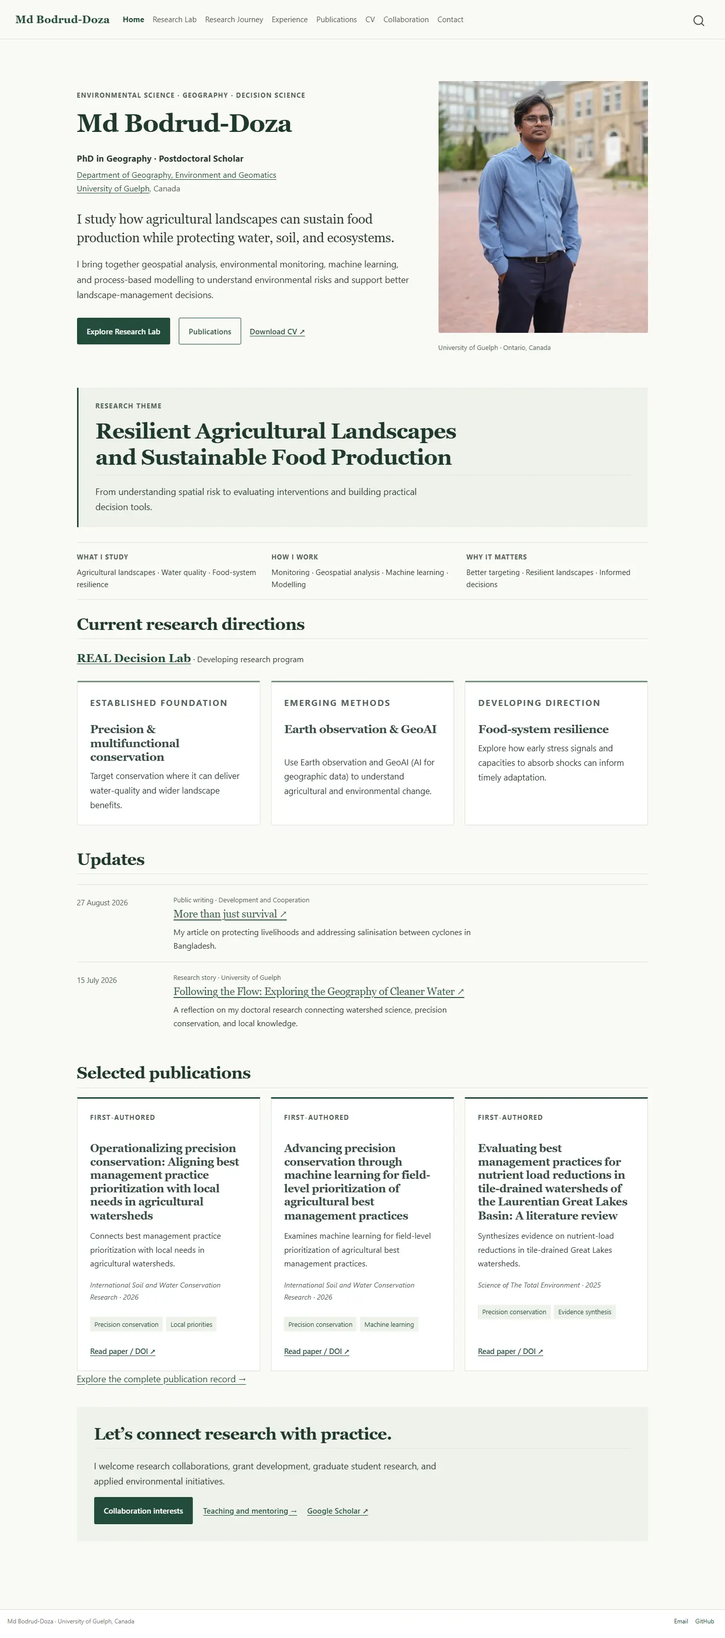
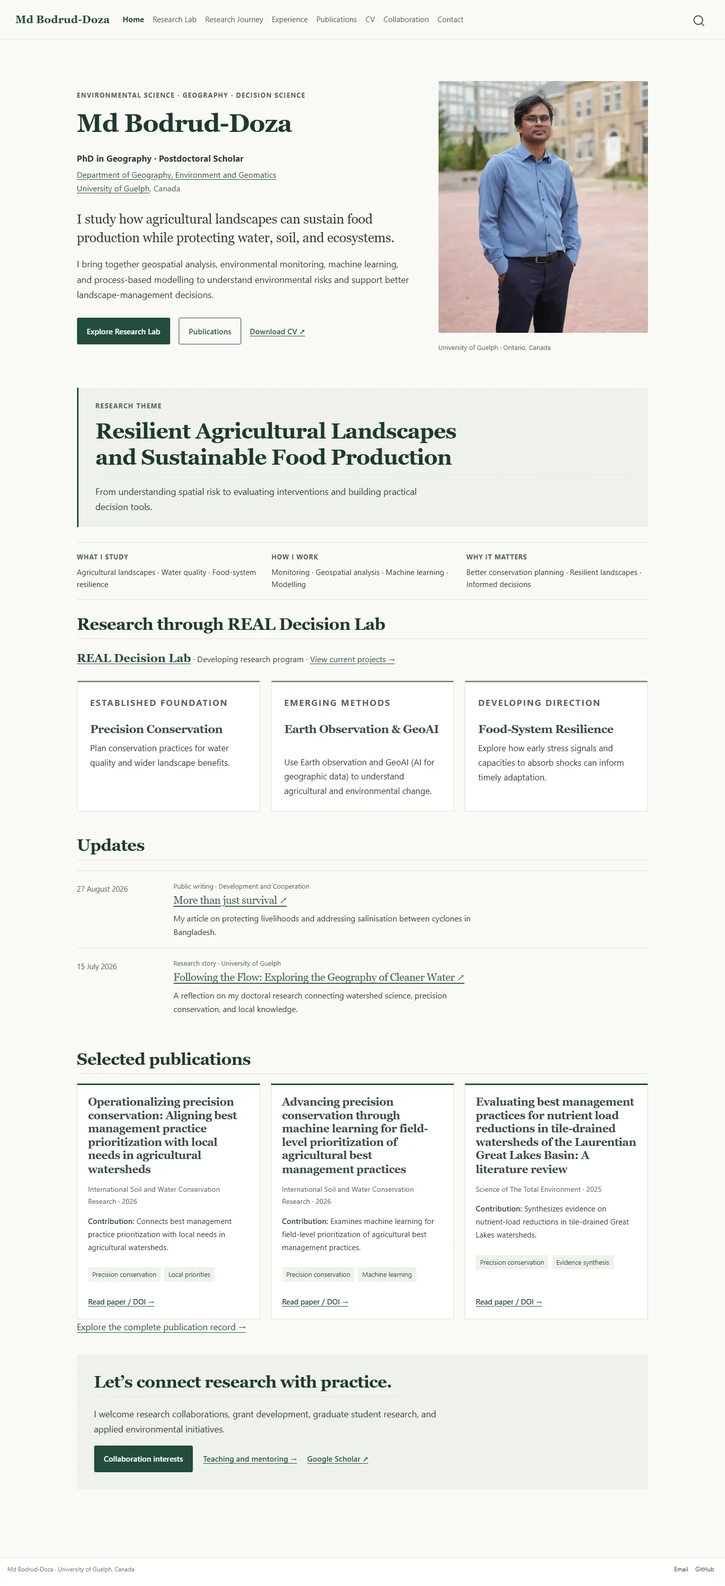
Refine academic project visibility, research learning loop, and concise page layouts

diff --git a/_includes/featured.html b/_includes/featured.html
@@ -1,1 +1,1 @@
-<div class="featured-grid"><article class="publication-feature"><p class="eyebrow">First-authored</p><h3>Operationalizing precision conservation: Aligning best management practice prioritization with local needs in agricultural watersheds</h3><p class="contribution">Connects best management practice prioritization with local needs in agricultural watersheds.</p><p class="journal">International Soil and Water Conservation Research · 2026</p><div class="topic-tags"><span>Precision conservation</span><span>Local priorities</span></div><a class="doi-link" href="https://doi.org/10.1016/j.iswcr.2026.100688" target="_blank" rel="noopener noreferrer">Read paper / DOI ↗</a></article><article class="publication-feature"><p class="eyebrow">First-authored</p><h3>Advancing precision conservation through machine learning for field-level prioritization of agricultural best management practices</h3><p class="contribution">Examines machine learning for field-level prioritization of agricultural best management practices.</p><p class="journal">International Soil and Water Conservation Research · 2026</p><div class="topic-tags"><span>Precision conservation</span><span>Machine learning</span></div><a class="doi-link" href="https://doi.org/10.1016/j.iswcr.2026.100668" target="_blank" rel="noopener noreferrer">Read paper / DOI ↗</a></article><article class="publication-feature"><p class="eyebrow">First-authored</p><h3>Evaluating best management practices for nutrient load reductions in tile-drained watersheds of the Laurentian Great Lakes Basin: A literature review</h3><p class="contribution">Synthesizes evidence on nutrient-load reductions in tile-drained Great Lakes watersheds.</p><p class="journal">Science of The Total Environment · 2025</p><div class="topic-tags"><span>Precision conservation</span><span>Evidence synthesis</span></div><a class="doi-link" href="https://doi.org/10.1016/j.scitotenv.2025.178657" target="_blank" rel="noopener noreferrer">Read paper / DOI ↗</a></article><article class="publication-feature"><p class="eyebrow">First-authored</p><h3>Towards implementing precision conservation practices in agricultural watersheds: A review of the use and prospects of Spatial Decision Support Tools and Systems</h3><p class="contribution">Reviews the use and prospects of spatial decision-support tools for precision conservation.</p><p class="journal">Science of The Total Environment · 2023</p><div class="topic-tags"><span>Precision conservation</span><span>Decision support</span></div><a class="doi-link" href="https://doi.org/10.1016/j.scitotenv.2023.167118" target="_blank" rel="noopener noreferrer">Read paper / DOI ↗</a></article></div>
+<div class="featured-grid"><article class="publication-feature"><h3>Operationalizing precision conservation: Aligning best management practice prioritization with local needs in agricultural watersheds</h3><p class="journal">International Soil and Water Conservation Research · 2026</p><p class="contribution"><strong>Contribution:</strong> Connects best management practice prioritization with local needs in agricultural watersheds.</p><div class="topic-tags"><span>Precision conservation</span><span>Local priorities</span></div><a class="doi-link" href="https://doi.org/10.1016/j.iswcr.2026.100688" target="_blank" rel="noopener noreferrer">Read paper / DOI →</a></article><article class="publication-feature"><h3>Advancing precision conservation through machine learning for field-level prioritization of agricultural best management practices</h3><p class="journal">International Soil and Water Conservation Research · 2026</p><p class="contribution"><strong>Contribution:</strong> Examines machine learning for field-level prioritization of agricultural best management practices.</p><div class="topic-tags"><span>Precision conservation</span><span>Machine learning</span></div><a class="doi-link" href="https://doi.org/10.1016/j.iswcr.2026.100668" target="_blank" rel="noopener noreferrer">Read paper / DOI →</a></article><article class="publication-feature"><h3>Evaluating best management practices for nutrient load reductions in tile-drained watersheds of the Laurentian Great Lakes Basin: A literature review</h3><p class="journal">Science of The Total Environment · 2025</p><p class="contribution"><strong>Contribution:</strong> Synthesizes evidence on nutrient-load reductions in tile-drained Great Lakes watersheds.</p><div class="topic-tags"><span>Precision conservation</span><span>Evidence synthesis</span></div><a class="doi-link" href="https://doi.org/10.1016/j.scitotenv.2025.178657" target="_blank" rel="noopener noreferrer">Read paper / DOI →</a></article><article class="publication-feature"><h3>Towards implementing precision conservation practices in agricultural watersheds: A review of the use and prospects of Spatial Decision Support Tools and Systems</h3><p class="journal">Science of The Total Environment · 2023</p><p class="contribution"><strong>Contribution:</strong> Reviews the use and prospects of spatial decision-support tools for precision conservation.</p><div class="topic-tags"><span>Precision conservation</span><span>Decision support</span></div><a class="doi-link" href="https://doi.org/10.1016/j.scitotenv.2023.167118" target="_blank" rel="noopener noreferrer">Read paper / DOI →</a></article></div>

diff --git a/styles.css b/styles.css
@@ -150,3 +150,70 @@ main.content p,.timeline-card p,.service-panel p { max-width:72ch; }
  .current-project { padding:1.2rem; }
 }
 
+/* Faculty-facing refinement: compact projects, readable roles, cumulative phases. */
+main.content .program-intro { max-width:none; }
+.program-intro a:last-child { white-space:nowrap; }
+.page-shortcuts { display:flex;flex-wrap:wrap;gap:.6rem 1.3rem;margin:1.3rem 0 2rem;padding:.8rem 0;border-block:1px solid var(--line);font-size:.88rem; }
+.project-grid { display:grid;grid-template-columns:repeat(2,minmax(0,1fr));gap:0 2rem;margin:1.4rem 0 2rem; }
+.project-card { padding:1.2rem 0;border-top:1px solid var(--line);min-width:0; }
+.project-card h3 { font-size:1.3rem;margin:.65rem 0; }
+.project-card h3 a { text-decoration:none; }
+.project-card p { font-size:.94rem;margin-bottom:.6rem; }
+.status-label { display:inline-block;background:var(--soft);color:var(--green);padding:.25rem .55rem;font-size:.75rem!important;font-weight:650;letter-spacing:.025em; }
+.active-project .status-label { background:#e3edf0;color:#244e61; }
+.project-link { font-size:.86rem;font-weight:600; }
+.research-framework .step-number { display:block;font-weight:700;font-size:.74rem;letter-spacing:.065em; }
+.learning-loop .loop-label { font-size:.8rem;text-transform:uppercase;letter-spacing:.07em; }
+.loop-steps { display:flex;justify-content:center;flex-wrap:wrap;gap:.35rem .6rem;list-style:none;padding:0;margin:.65rem 0 1rem; }
+.loop-steps li { font-size:.85rem;font-weight:600; }
+.loop-steps li+li:before { content:'→';padding-right:.6rem; }
+.current-project .project-definition { padding-top:.8rem;border-top:1px solid #c9d6dc;font-size:.88rem; }
+.project-sequence { gap:0; }
+.project-sequence li { flex:1;min-width:140px;padding:.7rem .8rem; }
+.compact-timeline { border-left:0;padding-left:0;margin-left:0; }
+.compact-timeline .timeline-card { display:grid;grid-template-columns:10rem minmax(0,1fr);gap:0 1.5rem;margin-bottom:1.4rem;padding-bottom:1.3rem; }
+.compact-timeline .timeline-card:before { content:none; }
+.compact-timeline .timeline-card .eyebrow { grid-column:1;grid-row:1 / span 5;margin-top:.25rem;font-size:.72rem; }
+.compact-timeline .timeline-card h3,.compact-timeline .timeline-card p:not(.eyebrow) { grid-column:2; }
+.compact-timeline .timeline-card h3 { font-size:1.35rem;margin:0 0 .35rem; }
+.compact-timeline .timeline-card .organisation { font-size:.9rem;margin-bottom:.5rem; }
+.compact-timeline .timeline-card p { font-size:.94rem;margin-bottom:.45rem; }
+.leadership-panel { display:grid;grid-template-columns:minmax(0,1fr) minmax(0,1.15fr);gap:2rem;align-items:center;margin:1.5rem 0 2rem; }
+.leadership-panel .evidence-photo { margin:0; }
+.leadership-panel p,.practice-list { font-size:.95rem; }
+.practice-list { padding-left:1.2rem; }
+.practice-list li { margin:.7rem 0; }
+.trajectory-ribbon article { padding-right:2rem;border-bottom:3px solid var(--green); }
+.trajectory-ribbon article:nth-child(2) { margin-left:-.8rem;padding-left:2rem;z-index:2;border-bottom-color:var(--earth); }
+.trajectory-ribbon article:nth-child(3) { margin-left:-.8rem;padding-left:2rem;z-index:3;border-bottom-color:var(--blue); }
+.trajectory-ribbon .phase-foundation { margin-top:1.2rem;border-top:1px solid #c5d0c4;padding-top:.8rem;font-size:.78rem;color:var(--green); }
+.phase-foundation span { display:block;text-transform:uppercase;font-size:.67rem;letter-spacing:.065em;margin-bottom:.4rem;color:var(--muted);font-weight:650; }
+.proposal-sequence { display:grid;grid-template-columns:repeat(4,minmax(0,1fr));list-style:none;padding:0;margin:1.4rem 0;gap:.7rem;counter-reset:proposal; }
+.proposal-sequence li { padding:.7rem;background:var(--soft);font-size:.86rem;counter-increment:proposal; }
+.proposal-sequence li:before { content:counter(proposal,decimal-leading-zero);display:block;color:var(--green);font-size:.75rem;font-weight:700;margin-bottom:.35rem; }
+.publication-feature { padding:1.25rem; }
+.publication-feature h3 { margin-top:0; }
+.publication-feature .journal { margin:.1rem 0 .8rem;font-style:normal;font-size:.84rem; }
+.publication-feature .contribution { font-size:.9rem; }
+.publication-feature .contribution strong { font-weight:600; }
+.collaboration-themes .research-card h3 { margin-top:0; }
+@media(max-width:768px) {
+ .compact-timeline .timeline-card { grid-template-columns:8rem minmax(0,1fr);gap:0 1rem; }
+ .project-sequence li { flex-basis:45%; }
+ .leadership-panel { grid-template-columns:1fr;gap:1.2rem; }
+ .leadership-panel .evidence-photo { max-width:600px; }
+ .proposal-sequence { grid-template-columns:repeat(2,minmax(0,1fr)); }
+}
+@media(max-width:640px) {
+ .project-grid { grid-template-columns:1fr; }
+ .compact-timeline .timeline-card { display:block; }
+ .compact-timeline .timeline-card .eyebrow { margin-bottom:.45rem; }
+ .trajectory-ribbon article:nth-child(2),.trajectory-ribbon article:nth-child(3) { margin-left:0;margin-top:-.65rem;padding-left:1.4rem;padding-top:1.8rem; }
+ .trajectory-ribbon article+article:before { top:.7rem; }
+ .loop-steps { display:block;text-align:left;padding:.2rem .6rem; }
+ .loop-steps li { padding:.4rem 0; }
+ .loop-steps li+li:before { content:'↓'; }
+ .loop-steps li:first-child { padding-left:1.1rem; }
+ .theme-band { padding:1.4rem; }
+}
+

diff --git a/_includes/featured-home.html b/_includes/featured-home.html
@@ -1,1 +1,1 @@
-<div class="featured-grid home-featured"><article class="publication-feature"><p class="eyebrow">First-authored</p><h3>Operationalizing precision conservation: Aligning best management practice prioritization with local needs in agricultural watersheds</h3><p class="contribution">Connects best management practice prioritization with local needs in agricultural watersheds.</p><p class="journal">International Soil and Water Conservation Research · 2026</p><div class="topic-tags"><span>Precision conservation</span><span>Local priorities</span></div><a class="doi-link" href="https://doi.org/10.1016/j.iswcr.2026.100688" target="_blank" rel="noopener noreferrer">Read paper / DOI ↗</a></article><article class="publication-feature"><p class="eyebrow">First-authored</p><h3>Advancing precision conservation through machine learning for field-level prioritization of agricultural best management practices</h3><p class="contribution">Examines machine learning for field-level prioritization of agricultural best management practices.</p><p class="journal">International Soil and Water Conservation Research · 2026</p><div class="topic-tags"><span>Precision conservation</span><span>Machine learning</span></div><a class="doi-link" href="https://doi.org/10.1016/j.iswcr.2026.100668" target="_blank" rel="noopener noreferrer">Read paper / DOI ↗</a></article><article class="publication-feature"><p class="eyebrow">First-authored</p><h3>Evaluating best management practices for nutrient load reductions in tile-drained watersheds of the Laurentian Great Lakes Basin: A literature review</h3><p class="contribution">Synthesizes evidence on nutrient-load reductions in tile-drained Great Lakes watersheds.</p><p class="journal">Science of The Total Environment · 2025</p><div class="topic-tags"><span>Precision conservation</span><span>Evidence synthesis</span></div><a class="doi-link" href="https://doi.org/10.1016/j.scitotenv.2025.178657" target="_blank" rel="noopener noreferrer">Read paper / DOI ↗</a></article></div>
+<div class="featured-grid home-featured"><article class="publication-feature"><h3>Operationalizing precision conservation: Aligning best management practice prioritization with local needs in agricultural watersheds</h3><p class="journal">International Soil and Water Conservation Research · 2026</p><p class="contribution"><strong>Contribution:</strong> Connects best management practice prioritization with local needs in agricultural watersheds.</p><div class="topic-tags"><span>Precision conservation</span><span>Local priorities</span></div><a class="doi-link" href="https://doi.org/10.1016/j.iswcr.2026.100688" target="_blank" rel="noopener noreferrer">Read paper / DOI →</a></article><article class="publication-feature"><h3>Advancing precision conservation through machine learning for field-level prioritization of agricultural best management practices</h3><p class="journal">International Soil and Water Conservation Research · 2026</p><p class="contribution"><strong>Contribution:</strong> Examines machine learning for field-level prioritization of agricultural best management practices.</p><div class="topic-tags"><span>Precision conservation</span><span>Machine learning</span></div><a class="doi-link" href="https://doi.org/10.1016/j.iswcr.2026.100668" target="_blank" rel="noopener noreferrer">Read paper / DOI →</a></article><article class="publication-feature"><h3>Evaluating best management practices for nutrient load reductions in tile-drained watersheds of the Laurentian Great Lakes Basin: A literature review</h3><p class="journal">Science of The Total Environment · 2025</p><p class="contribution"><strong>Contribution:</strong> Synthesizes evidence on nutrient-load reductions in tile-drained Great Lakes watersheds.</p><div class="topic-tags"><span>Precision conservation</span><span>Evidence synthesis</span></div><a class="doi-link" href="https://doi.org/10.1016/j.scitotenv.2025.178657" target="_blank" rel="noopener noreferrer">Read paper / DOI →</a></article></div>

diff --git a/scripts/render_publications.py b/scripts/render_publications.py
@@ -16,9 +16,10 @@ def item(p,featured=False):
  badge='<span class="authorship">First-authored</span>' if p['first_authored'] else ''
  if featured:
   journal=f'<p class="journal">{e(p.get("journal", ""))} · {e(p["year"] if p["year"] is not None else "Undated")}</p>'
-  contribution=f'<p class="contribution">{e(p["contribution"])}</p>' if p.get('contribution') else ''
+  contribution=f'<p class="contribution"><strong>Contribution:</strong> {e(p["contribution"])}</p>' if p.get('contribution') else ''
   tags='<div class="topic-tags">'+''.join(f'<span>{e(t)}</span>' for t in p.get('display_tags',p['topics'])[:3])+'</div>'
-  return f'<article class="publication-feature"><p class="eyebrow">{"First-authored" if p["first_authored"] else "Featured research"}</p><h3>{e(p.get("title",p["citation"]))}</h3>{contribution}{journal}{tags}{link}</article>'
+  feature_link=link.replace(" ↗</a>"," →</a>")
+  return f'<article class="publication-feature"><h3>{e(p.get("title",p["citation"]))}</h3>{journal}{contribution}{tags}{feature_link}</article>'
  attrs=f'data-category="{e(p["category"])}" data-view="{e(view(p))}" data-year="{e(p["year"])}" data-topics="{e("|".join(p["topics"]))}" data-first="{str(p["first_authored"]).lower()}"'
  citation=re.sub(r'Bodrud-Doza(?:,?\s*M\.?)?',lambda m:'<strong>'+m[0]+'</strong>',e(p['citation']))
  return f'<article class="publication-entry" {attrs}><p class="citation">{citation}</p><div class="publication-meta">{badge}{link}</div></article>'

diff --git a/scripts/check_site.py b/scripts/check_site.py
@@ -29,8 +29,8 @@ for f in output.glob('*.html'):
         if y>x+1:errors.append(f'{f.name}: heading jump {x} -> {y}')
     if p.bad_images:errors.append(f'{f.name}: missing image alt {p.bad_images}')
     if p.bad_rel:errors.append(f'{f.name}: unsafe new-tab links {p.bad_rel}')
-    allowed={'index.html':['assets/portrait.webp'],'research-journey.html':['assets/images/journey/research-journey.webp']}.get(f.name,[])
-    if p.images!=allowed:errors.append(f'{f.name}: unexpected image under the portrait/journey-only policy: {p.images}')
+    allowed={'index.html':['assets/portrait.webp'],'research-journey.html':['assets/images/journey/research-journey.webp'],'experience.html':['assets/images/experience/leadership-consultation.webp']}.get(f.name,[])
+    if p.images!=allowed:errors.append(f'{f.name}: unexpected image under the portrait/journey/one-leadership-image policy: {p.images}')
     text=f.read_text(encoding='utf-8')
     for forbidden in ['7,000+','60+','h-index','2026 – Present','{{< include']:
         if forbidden in text:errors.append(f'{f.name}: stale or unrendered content {forbidden}')

diff --git a/scripts/render_updates.py b/scripts/render_updates.py
@@ -6,7 +6,7 @@ root=Path(__file__).resolve().parents[1]
 updates=json.loads((root/'updates.json').read_text(encoding='utf-8'))
 def e(value):return html.escape(str(value),quote=True)
 items=[]
-for update in sorted(updates,key=lambda x:x['date'],reverse=True):
+for update in sorted(updates,key=lambda x:x['date'],reverse=True)[:2]:
     when=date.fromisoformat(update['date'])
     if not update['url'].startswith('https://'):raise ValueError('Update links must use HTTPS')
     label=f'{when.day} {when.strftime("%B %Y")}'

diff --git a/MAINTENANCE_GUIDE.md b/MAINTENANCE_GUIDE.md
@@ -21,26 +21,34 @@ Edit the appointment and affiliation in `index.qmd`, then the corresponding entr
 1. Edit `updates.json`. Copy one complete object, keeping commas between objects.
 2. Supply `date` as `YYYY-MM-DD`, plus `type`, `publisher`, `title`, a brief original `summary`, and the public HTTPS `url`.
 3. Verify the title and publication date at the publisher. Do not confuse the article date with the date you add it.
-4. Keep the list concise (usually two or three recent entries). Move older items out as you add new ones.
+4. The homepage automatically shows only the two newest entries, sorted by their verified publication dates. Older entries can remain in `updates.json`; they are preserved but not shown in the homepage list.
 5. Render and check the links. Do not edit `_includes/updates.html`; `scripts/render_updates.py` regenerates it.
 
 ## C. Update the four Research Lab areas
 
 
 1. Open `research.qmd` on GitHub and click Edit.
-2. Find `<div class="framework research-framework">`. Each `<li id="area-...">` contains an area title, plain-language question, and methods.
+2. Find `<div class="framework research-framework">`. Each `<li id="area-...">` contains an action label (OBSERVE, UNDERSTAND, PLAN, DECIDE & LEARN), an area title, a plain-language question, and a short explanation.
 3. Edit those words while preserving the four IDs (`area-observe`, `area-understand`, `area-design`, `area-learn`). The return link relies on the first ID.
 4. Keep GeoAI and Earth observation described as growing directions below the framework. Commit, check Actions, then inspect desktop and phone layouts.
 
 ## D. Maintain the learning loop
 
 
-Find `<div class="learning-loop">` in `research.qmd`. Change its visible paragraph and the SVG `<title id="loop-title">` together so the accessible description agrees with the diagram. Keep the arrow path and return-link destination unchanged unless you are redesigning the framework.
+Find `<div class="learning-loop">` in `research.qmd`. Edit the five `<li>` steps in `<ol class="loop-steps">` and the SVG `<title id="loop-title">` together so the accessible description agrees with the diagram. Keep the order: Monitor outcomes → Compare results with expectations → Learn → Update models and priorities → Observe again. Keep the arrow path and return-link destination unchanged unless you are redesigning the framework.
 
 ## E. Update the current Mitacs project
 
 
 The owner confirmed on 7 October 2026 that Mitacs is the current postdoctoral project. In `research.qmd`, find “Current project: Healthy Lake Huron”. Keep intended outputs distinct from completed findings. ABCA is the formal Mitacs partner; MVCA and other Healthy Lake Huron participants are the wider data/collaboration context. Update the related short entry in `experience.qmd` and “Current applied collaboration” in `collaboration.qmd` together. Do not upload the source proposal or private partner data. Confirm any change to partner roles, dates, or project status before editing.
+
+### Edit project cards and status
+
+1. Open `research.qmd` and find “Current and developing projects” and `<div class="project-grid">`.
+2. Each `<article class="project-card">` contains a status label, title, one short explanation, and sometimes a link.
+3. Edit these words and check the linked section. Keep statuses precise: Active, PhD foundation, Developing, or Submitted proposal / Developing.
+4. A submitted proposal becomes awarded or active only after confirmation. Update Research Lab, Experience, Collaboration, and the web CV together where relevant.
+5. Keep methods described as emerging when they are still being developed. Render and inspect the cards on a phone.
 
 ## F. Replace the journey photo
 
@@ -49,9 +57,9 @@ The owner confirmed on 7 October 2026 that Mitacs is the current postdoctoral pr
 2. Export a compressed WebP with EXIF/GPS metadata removed; use the existing derivative filename.
 3. Replace `assets/images/journey/research-journey.webp` on GitHub.
 4. Update its width/height, alt text, and caption in `research-journey.qmd` and the inventory in `assets/images/manifest.json`.
-5. Confirm the three phase panels remain visible without clicking. Run the site check: it enforces the portrait/journey-only photo policy.
+5. Confirm the three phase panels remain visible without clicking. Run the site check: it enforces the portrait/journey/one-leadership-image policy.
 
-The only site photos are the homepage portrait and this journey image. Keep originals outside the repository. Do not add galleries or personal/family photographs.
+The site photos are the homepage portrait, this journey image, and one professional consultation image on Experience. Keep originals outside the repository. Do not add galleries or personal/family photographs.
 
 ## G. Add a publication
 
@@ -86,12 +94,12 @@ Set `"featured": true` or `false`. Cards follow JSON order; Home displays the fi
 "display_tags": ["Precision conservation", "Machine learning"]
 ```
 
-Use two or three short display tags; `topics` still drives filtering. Retain the full `citation`. Update the separate research-arc text in `publications.qmd` when needed.
+Use two or three short display tags; `topics` still drives filtering. Retain the full `citation`. Featured cards show title, journal/year, one contribution sentence, tags, and paper link. The full citation appears only in the complete record. Update the separate research-arc text in `publications.qmd` when needed.
 
 ## I. Update the publication research arc
 
 
-The four-step arc is editorial text in `publications.qmd`, separate from the full JSON record. Edit the years and short step descriptions together. Preserve published titles in `publications.json`; do not silently rename a paper to fit the arc.
+“How the research program developed” is a four-step overview in `publications.qmd`, separate from the full JSON record. Edit the years and short step descriptions together. Preserve published titles in `publications.json`; do not silently rename a paper to fit the arc.
 
 ## J. Update the public CV PDF safely
 
@@ -99,16 +107,32 @@ Use **Add file → Upload files** inside `assets` to replace `Md_Bodrud_Doza_Aca
 
 Review every page and link after rebuilding. Remove private phone numbers, home addresses, immigration details, referee contacts, hidden comments, and private metadata. Use institutional contact details only. Never upload the original private Word CV. Test the live download. Editing `cv.qmd` alone does not update the PDF.
 
+### Edit professional experience
+
+1. In `experience.qmd`, find “Academic & Applied Research” or “Climate, Development & Leadership”.
+2. Each timeline `<article>` contains dates, role title, institutional link, and a short contribution description.
+3. Update those fields together using your verified records. Keep institutional links official; Ispahani Agro uses `https://ispahaniagro.com/`.
+4. Retain short paragraphs; the full CV holds the detailed record. Check that a role remains in the appropriate group.
+
+### Maintain the single leadership photograph
+
+1. The current source is `E:\Z_website\Pictures\Leadership and science–policy practice1.jpg`. Only one photograph is used in this section.
+2. Export a compressed WebP with metadata removed, preserving the full frame and original aspect ratio.
+3. Replace `assets/images/experience/leadership-consultation.webp` using **Add file → Upload files** inside that repository folder.
+4. Update its width, height, alt text, and caption in the Experience `leadership-panel`, plus `assets/images/manifest.json`.
+5. Use a caption supported by your records. Do not infer names, dates, organisations, or event details from an image alone. Keep the photograph relevant to leadership, engagement, or science–policy practice.
+6. Run the checks and view Experience on desktop and phone. Adding a gallery violates the current image policy and will fail the check.
+
 ## K. Maintain teaching and selected feedback
 
 
 The main teaching account lives in `experience.qmd#teaching-and-mentoring`; the web CV links there. Keep documented GTA responsibilities distinct from future teaching interests and goals. Replace quotes only with accurately attributed feedback from your own evaluations. The sample teaching dossier is a structural reference; its courses, certifications, syllabi, and student comments do not belong in your record.
 
-Keep exactly two short anonymous quotes from your own evaluations, with course/term attribution. Do not publish evaluation screenshots. Keep the course lists in Experience and CV consistent.
+Keep exactly two short anonymous quotes from your own evaluations, with course/term attribution. Do not publish evaluation screenshots. Keep the full supported-course list in Experience. The concise web CV links to it; the downloadable PDF remains a separate record.
 
 ## L. Update collaboration and project status
 
-Edit `collaboration.qmd` and related cards in Research/CV. Change submitted/prospective wording to awarded/funded/active only after official confirmation. CPRA currently describes a submitted proposal. REAL Decision Lab remains a developing research program. FAO, Oxford Martin School, Cornell, and RAAPID are prospective network connections for the proposal, not claims of your established personal partnerships.
+Edit `collaboration.qmd` and related cards in Research/CV. Keep four collaboration themes: Earth Observation & GeoAI; Agricultural Water & Conservation; Climate & Food-System Resilience; Decision Science, Economics & Implementation. Change submitted/prospective wording to awarded/funded/active only after official confirmation. CPRA currently describes a submitted proposal. REAL Decision Lab remains a developing research program. FAO, Oxford Martin School, Cornell, and RAAPID are prospective network connections for the proposal, not claims of your established personal partnerships.
 
 ## M. Update collaboration and profile links
 

diff --git a/README.md b/README.md
@@ -23,11 +23,11 @@ Categories follow the supplied CV: First-Authored Articles, Co-Authored Articles
 
 Replace `assets/Md_Bodrud_Doza_Academic_CV.pdf` with a reviewed public-safe PDF using the same filename. The links then keep working. Alternatively edit `assets/cv-content.json`, install ReportLab (`python -m pip install reportlab`), and run `python scripts/build_cv.py`. Review every PDF page after rebuilding. The CV JSON is a separate editable CV source; also update its publication section when adding publications to the website.
 
-Never upload a private CV, home address, phone number, immigration or family details, or referee contacts. The current photo policy permits only the homepage portrait and research-only journey image. Audit text, links, metadata, and embedded content before publishing. Only institutional contact details belong on this site. Original Word documents are deliberately excluded from this repository.
+Never upload a private CV, home address, phone number, immigration or family details, or referee contacts. The current photo policy permits the homepage portrait, research-only journey image, and one professional consultation photograph on Experience. Audit text, links, metadata, and embedded content before publishing. Only institutional contact details belong on this site. Original Word documents are deliberately excluded from this repository.
 
 ## Replace photos or add research projects
 
-The portrait is `assets/portrait.webp`; the social-sharing image is `assets/social.jpg`. Use compressed derivatives with EXIF metadata removed. Update image alt text and size attributes when replacing them. Add research project text to `research.qmd`, with a clear distinction between completed work and developing ideas. Do not imply the REAL Decision Lab is a staffed established lab. Keep the portrait and journey-only photo policy; replace the existing derivative when a photo needs updating. Do not upload sensitive datasets.
+The portrait is `assets/portrait.webp`; the social-sharing image is `assets/social.jpg`. Use compressed derivatives with EXIF metadata removed. Update image alt text and size attributes when replacing them. Add research project text to `research.qmd`, with a clear distinction between completed work and developing ideas. Do not imply the REAL Decision Lab is a staffed established lab. Keep the portrait, journey, and single leadership photograph policy; replace the existing derivative when a photo needs updating. Do not upload sensitive datasets.
 
 ## Preview locally
 
@@ -60,4 +60,8 @@ The supplied Website Content document controlled the public wording and research
 
 ## Round 2 content
 
-The Research Lab tab leads to the prominent REAL Decision Lab page. `updates.json` supplies the dated homepage Updates list through `scripts/render_updates.py`. The current Mitacs project was confirmed active by the owner; the CPRA direction remains submitted. Teaching approach, supported courses, future interests, and two selected evaluation quotes are in Experience. The only documentary derivative is `assets/images/journey/research-journey.webp`, from `ResearchJourney - only.jpg`. See the maintenance guide for updating areas, the return loop, project status, Updates, teaching, and the journey photo.
+The Research Lab tab leads to the prominent REAL Decision Lab page. `updates.json` supplies the dated homepage Updates list through `scripts/render_updates.py`. The current Mitacs project was confirmed active by the owner; the CPRA direction remains submitted. Teaching approach, supported courses, future interests, and two selected evaluation quotes are in Experience. The journey derivative is `assets/images/journey/research-journey.webp`, from `ResearchJourney - only.jpg`. One professional consultation photograph appears in Experience as `assets/images/experience/leadership-consultation.webp`. See the maintenance guide for updating areas, the return loop, project status, Updates, teaching, and the journey photo.
+
+## Academic website refinement
+
+Research Lab uses OBSERVE → UNDERSTAND → PLAN → DECIDE & LEARN, with a five-step adaptive return loop. Four project cards in `research.qmd` separate active Mitacs research, the PhD foundation, emerging Earth observation/GeoAI, and the submitted CPRA direction. `updates.json` retains news records; the renderer displays only the two newest. Experience groups academic/applied research and climate/development/leadership, with teaching kept on the same page. Featured publication cards retain exact titles and show journal/year before the contribution. The web CV is a concise overview with one main download button. The GitHub Actions workflow and publication metadata remain unchanged.
